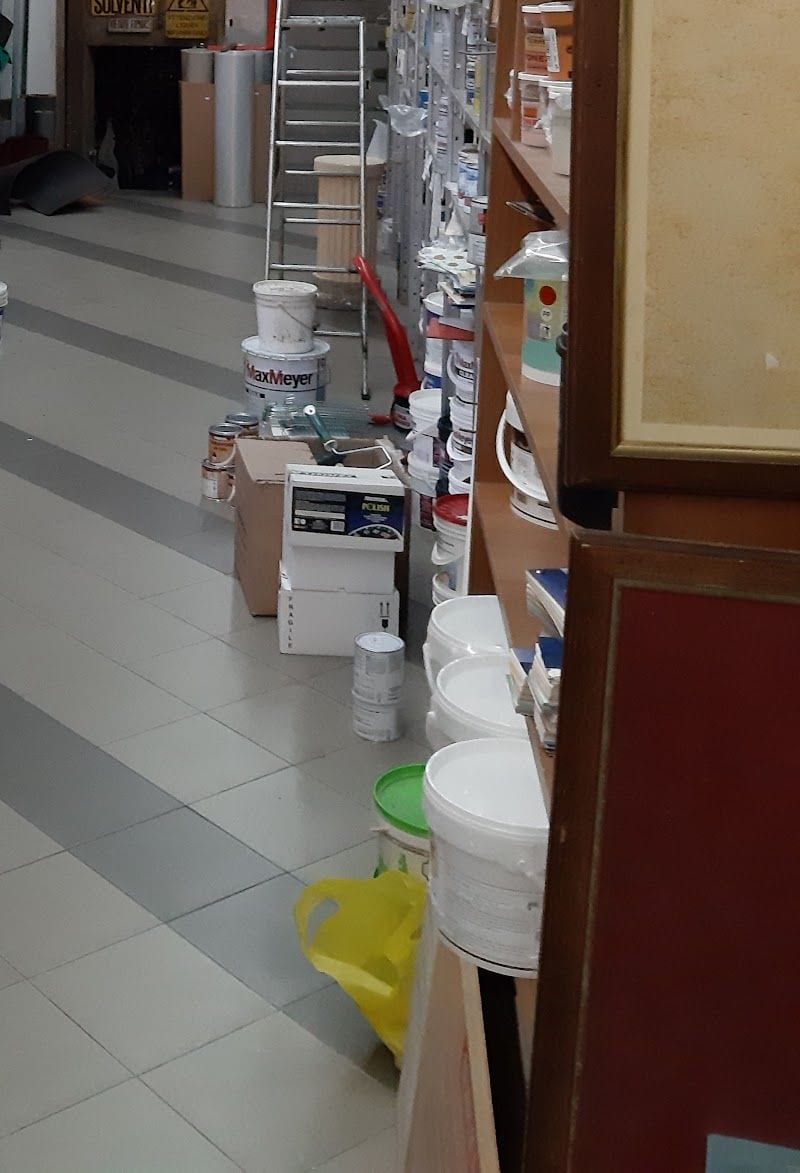
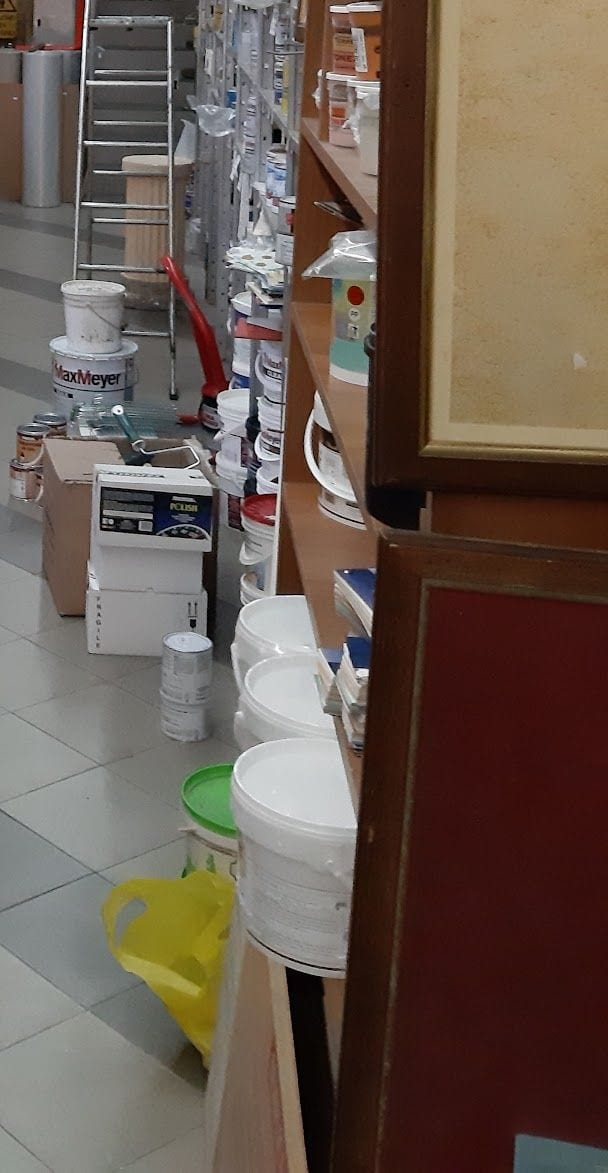
Master Color Niguarda: ritaglio dell'interno senza etichette di marca

diff --git a/index.html b/index.html
@@ -147,7 +147,7 @@
     </div>
     <figure class="foto reveal reveal-d2">
       <button type="button" class="shot" data-full="img/interno.jpg" aria-label="Ingrandisci la foto dell'interno" data-i18n-aria="b.zoom">
-        <img src="img/interno.jpg" alt="Dentro il colorificio: l'espositore delle bombolette spray, i secchi di pittura, il banco rosso e le cartelle colori" width="800" height="1173" data-i18n-alt="b.alt">
+        <img src="img/interno.jpg" alt="Dentro il colorificio: l'espositore delle bombolette spray, i secchi di pittura, il banco rosso e le cartelle colori" width="608" height="1173" data-i18n-alt="b.alt">
       </button>
       <figcaption class="didascalia" data-i18n="b.cap">dentro: le bombolette, i secchi, il banco (foto della scheda Google)</figcaption>
     </figure>
